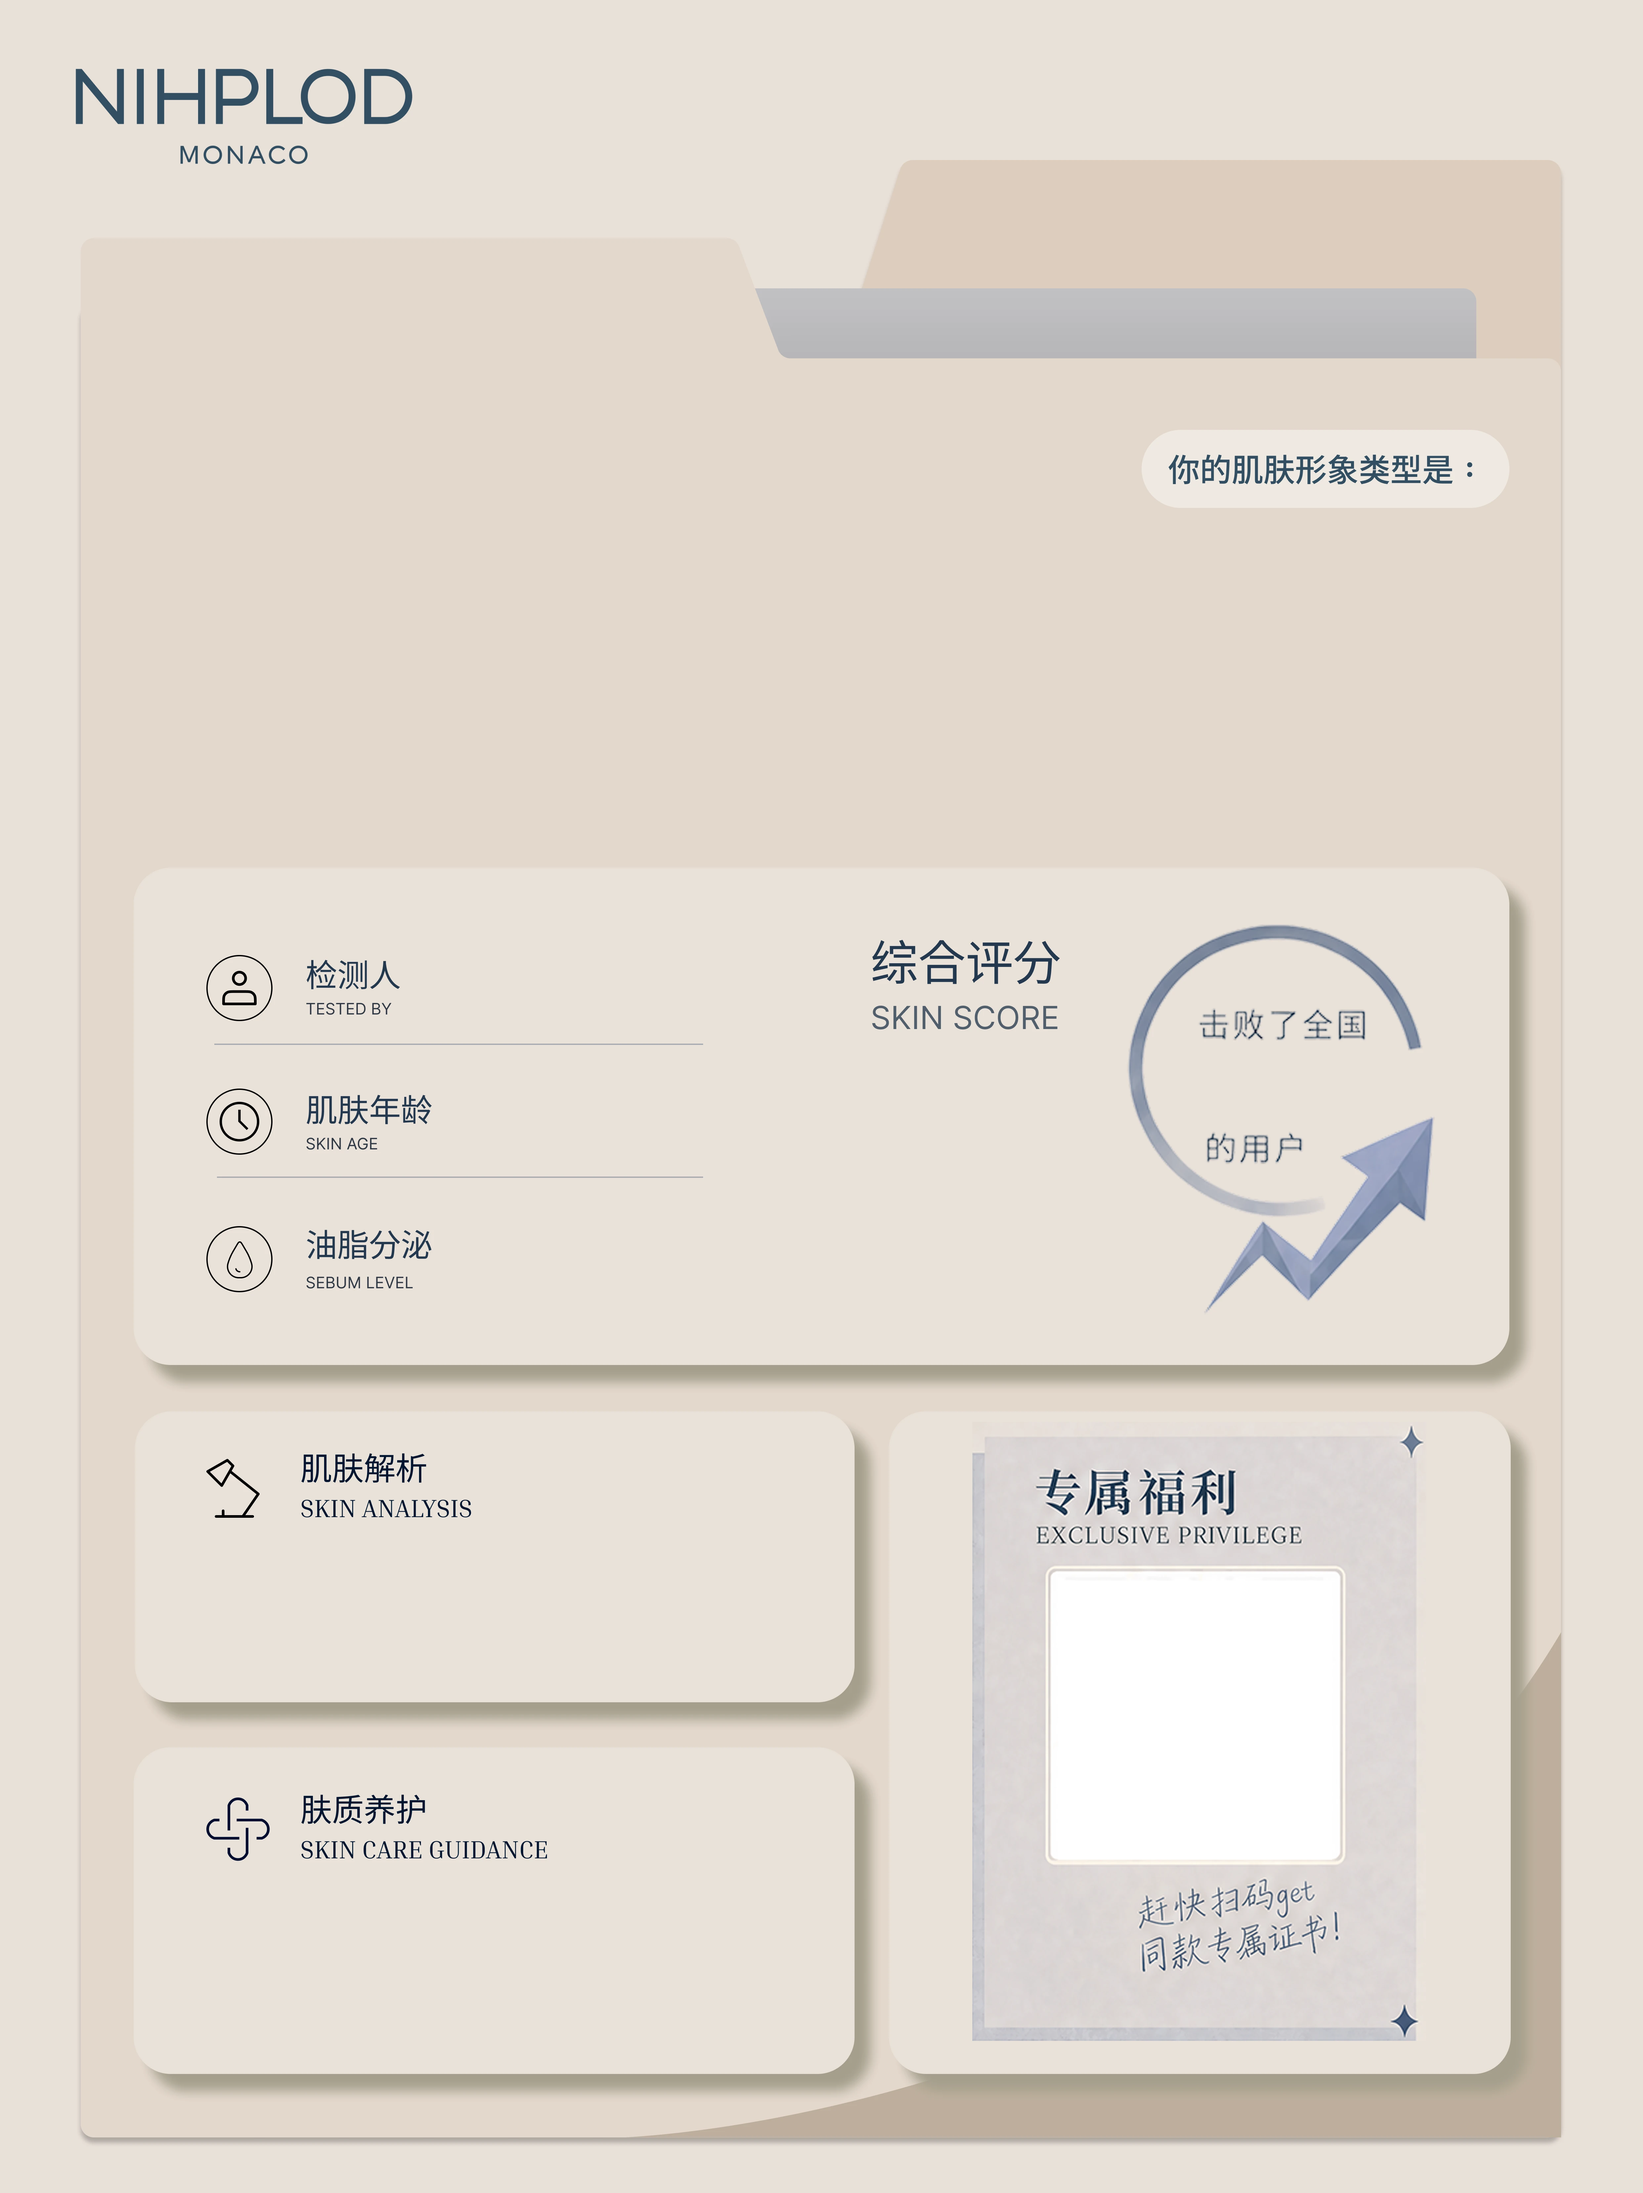
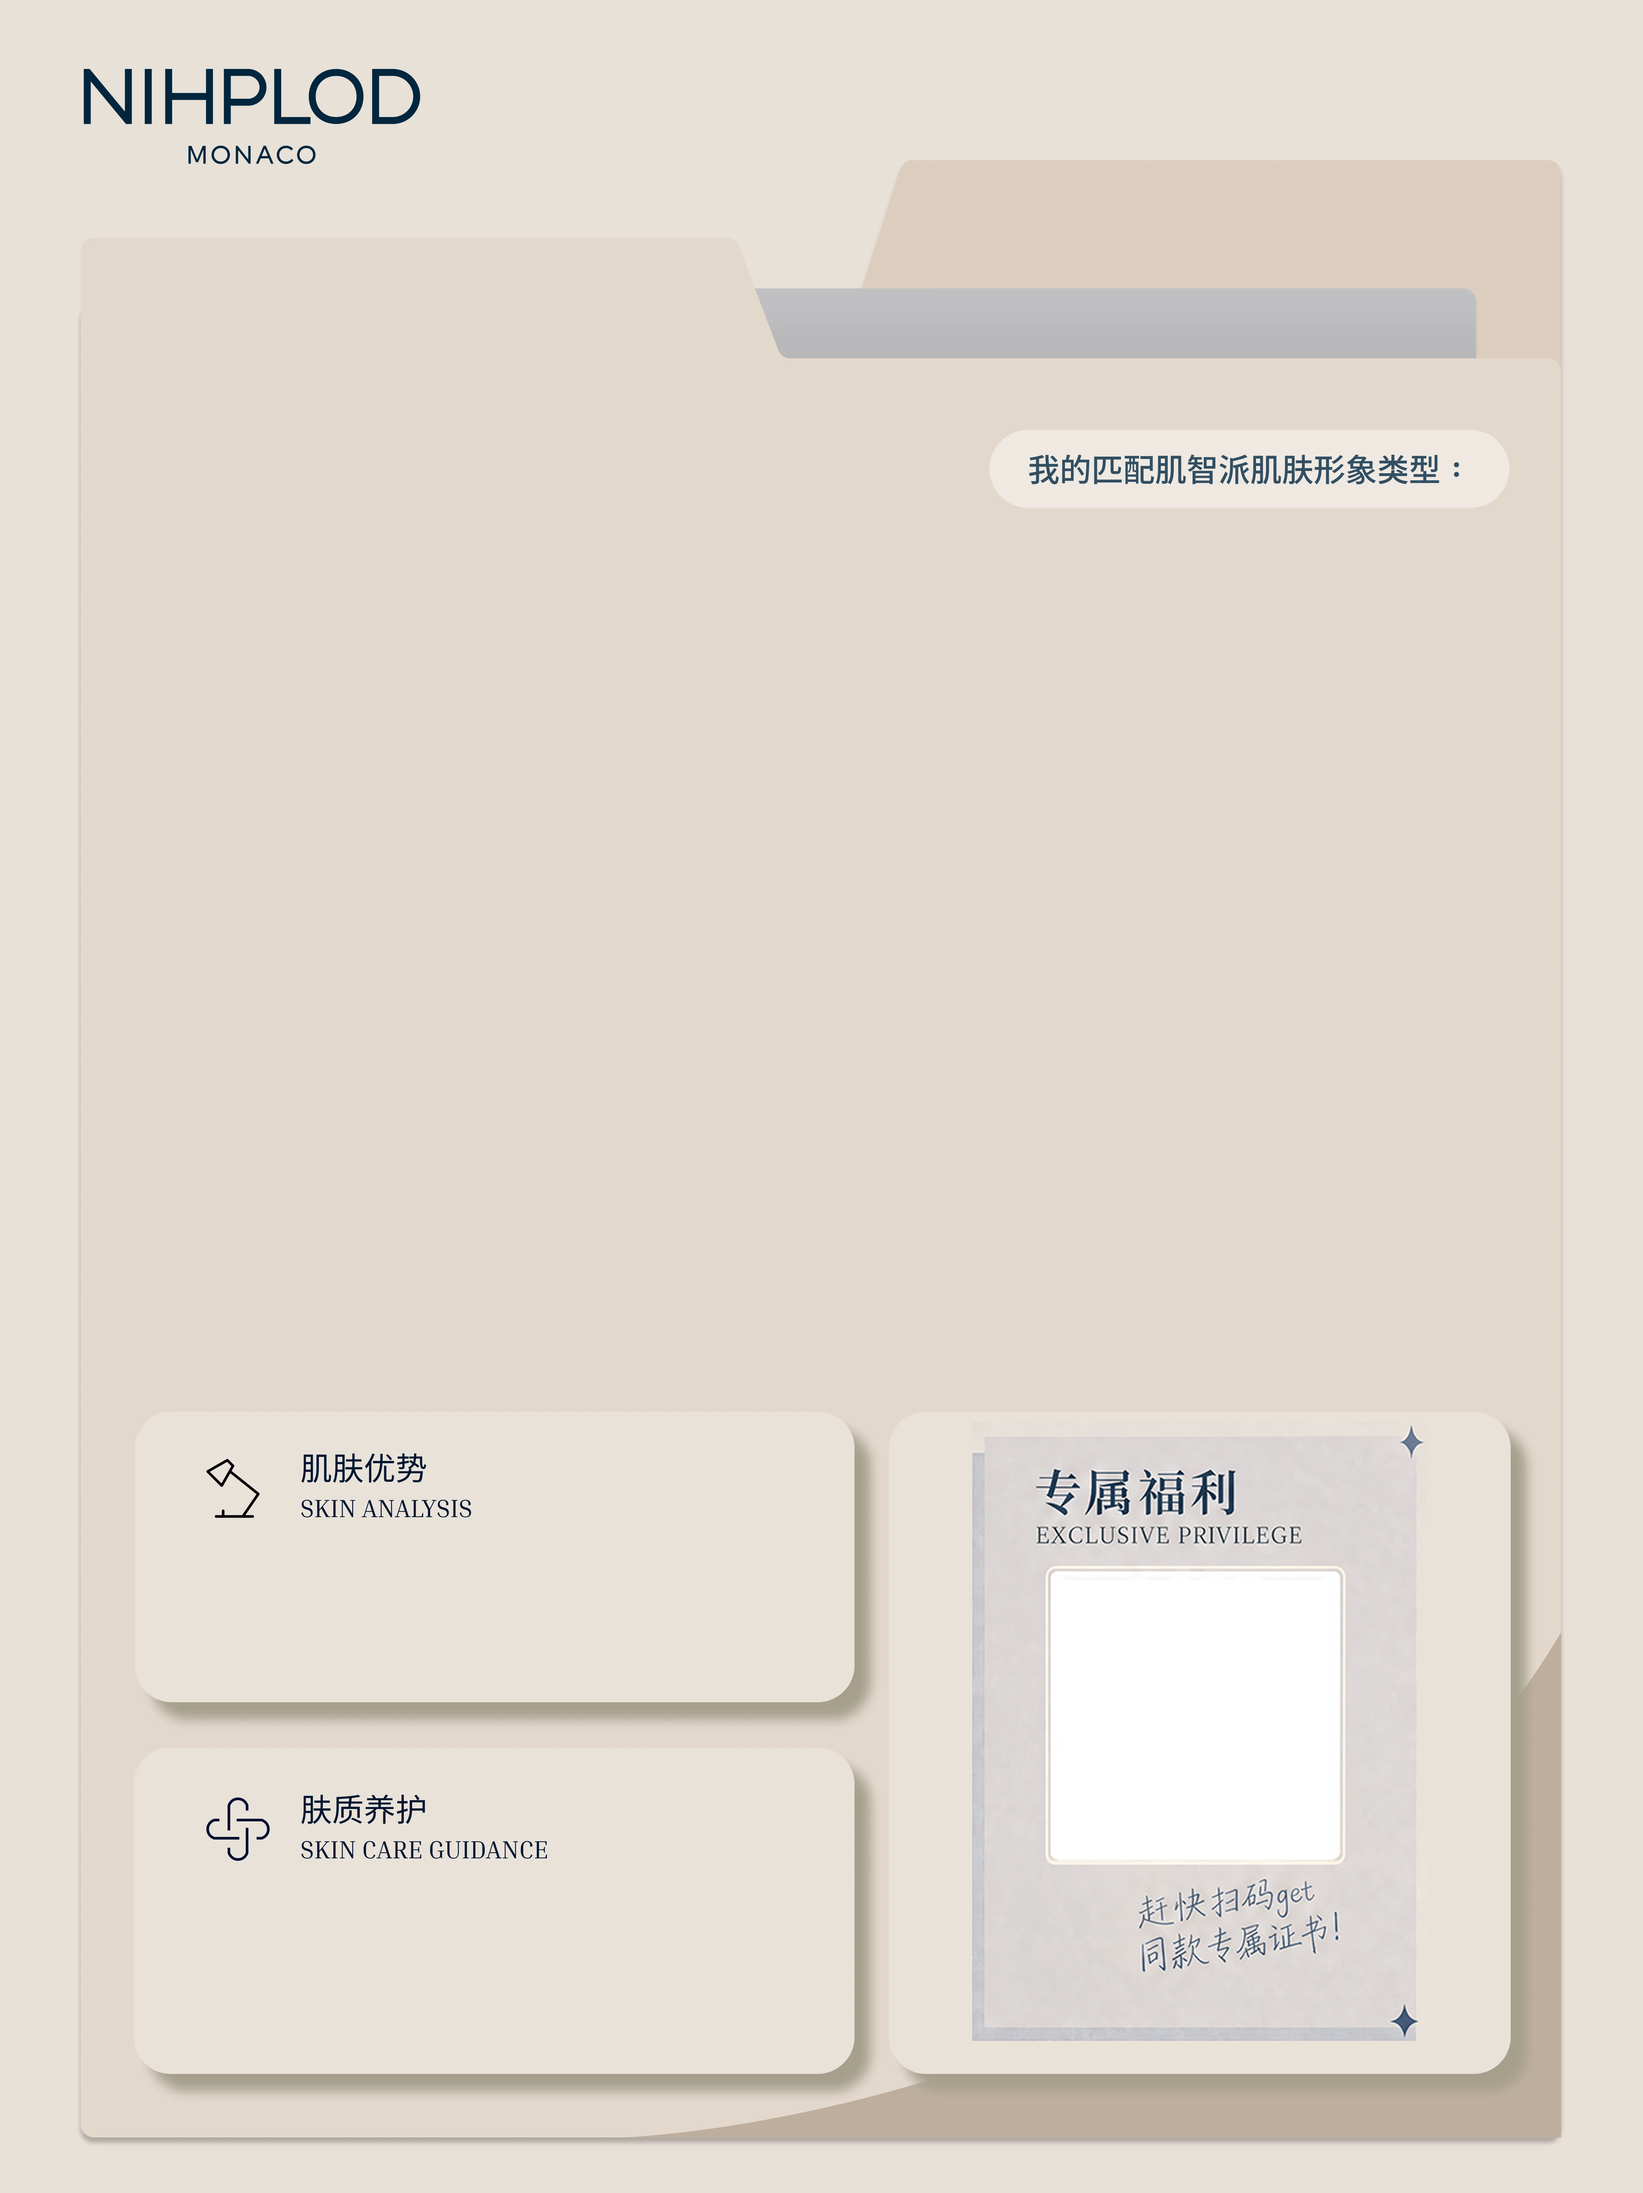
1

diff --git a/src/components/advisor/poster/SharePoster.tsx b/src/components/advisor/poster/SharePoster.tsx
@@ -12,58 +12,50 @@ interface SharePosterProps {
   persona?: string;
   avatar?: string | null;
   posterTemplate?: string;
+  posterOverlay?: string;
   qrDataUrl?: string | null;
 }
 
 export const SharePoster = forwardRef<HTMLDivElement, SharePosterProps>(
   function SharePoster(
-    { nickname, score, percentile, skinTypeName, waterOil, persona, avatar, posterTemplate, qrDataUrl },
+    { nickname, score, percentile, skinTypeName, waterOil, persona, avatar, posterTemplate, posterOverlay, qrDataUrl },
     ref
   ) {
     const [templateFailed, setTemplateFailed] = useState(false);
-
-    const showTemplate = posterTemplate && !templateFailed;
+    const [overlayFailed, setOverlayFailed] = useState(false);
 
     return (
       <div
         ref={ref}
-        className="relative w-[360px] h-[640px] overflow-hidden"
+        className="relative w-[480px] h-[640px] overflow-hidden"
         style={{ fontFamily: "system-ui, -apple-system, sans-serif" }}
       >
-        {/* 背景模板图片 */}
-        {showTemplate ? (
+        {/* 第一层：背景模板图 */}
+        {posterTemplate && !templateFailed ? (
           <img
             src={posterTemplate}
-            alt="海报模板"
-            className="absolute inset-0 w-full h-full object-cover"
+            alt=""
+            className="absolute inset-0 w-full h-full object-contain"
             onError={() => setTemplateFailed(true)}
           />
         ) : (
-          <div className="absolute inset-0 bg-gradient-to-b from-[#FAF8F5] to-[#F0E6D8]">
-            <div
-              className="absolute inset-0 opacity-20"
-              style={{
-                backgroundImage: "radial-gradient(#5c4937 1px, transparent 1px)",
-                backgroundSize: "24px 24px",
-              }}
-            />
-          </div>
+          <div className="absolute inset-0 bg-gradient-to-b from-[#FAF8F5] to-[#F0E6D8]" />
         )}
 
-        {/* 头像 — 绝对定位到模板圆圈位置 */}
+        {/* 第二层：IP 形象头像 */}
         {avatar && (
           <div
-            className="absolute z-20 rounded-full overflow-hidden"
+            className="absolute z-10 rounded-full overflow-hidden"
             style={{
-              top: 258,
-              right: 280,
+              top: "40.3%",
+              left: "66.7%",
               width: 32,
               height: 32,
             }}
           >
             <img
               src={avatar}
-              alt={nickname}
+              alt=""
               className="w-full h-full object-cover object-center"
               onError={(e) => {
                 (e.target as HTMLImageElement).style.display = "none";
@@ -72,61 +64,63 @@ export const SharePoster = forwardRef<HTMLDivElement, SharePosterProps>(
           </div>
         )}
 
-        {/* 内容层 */}
-        <div className="relative z-10 flex flex-col h-full p-6">
+        {/* 第三层：装饰叠加图 */}
+        {posterOverlay && !overlayFailed && (
+          <img
+            src={posterOverlay}
+            alt=""
+            className="absolute inset-0 w-full h-full object-contain z-20 pointer-events-none"
+            onError={() => setOverlayFailed(true)}
+          />
+        )}
+
+        {/* 第四层：所有文字字段 */}
+        <div className="absolute inset-0 z-30 pointer-events-none">
           {/* 昵称 */}
-          <div className="text-center mb-4" style={{ transform: 'translateY(238px) translateX(-70px)' }}>
-            <p className="text-lg font-medium text-[#2d2a26]">
-              {nickname}
-            </p>
+          <div className="absolute top-[37%] left-1/2 -translate-x-1/2">
+            <p className="text-lg font-medium text-[#2d2a26] whitespace-nowrap">{nickname}</p>
           </div>
 
-          {/* 核心数据 */}
-          <div className="flex-1 flex flex-col items-center justify-center gap-6">
-            {skinTypeName && (
-              <div className="text-center px-6">
-                <p className="text-xs tracking-widest text-[#8c7a6b]">
-                  「{skinTypeName}」
-                </p>
-              </div>
-            )}
-
-            <div className="text-center pl-54">
-              {score !== undefined ? (
-                <div className="text-5xl font-bold text-[#E53935]" style={{ transform: 'translateY(-88px) rotate(5deg)' }}>{score}<span className="text-sm font-bold">分</span></div>
-              ) : (
-                <div className="text-2xl font-bold text-[#E53935]" style={{ transform: 'translateY(-88px) rotate(5deg)' }}>问卷评估</div>
-              )}
+          {/* IP 名称 */}
+          {skinTypeName && (
+            <div className="absolute top-[43%] left-1/2 -translate-x-1/2">
+              <p className="text-xs tracking-widest text-[#8c7a6b] whitespace-nowrap">「{skinTypeName}」</p>
             </div>
+          )}
 
-            {persona && (
-              <div className="text-center px-8">
-                <p className="text-sm text-[#5c4937] leading-relaxed" style={{ fontStyle: "italic" }}>
-                  {persona}
-                </p>
-              </div>
-            )}
-
-            {percentile !== undefined && (
-              <div className="text-center px-6">
-                <p className="text-sm text-[#5c4937] leading-relaxed">
-                  <span className="font-bold text-4xl mx-1" style={{ transform: 'translate(-97px, -28px)', display: 'inline-block' }}>{percentile}%</span>
-                </p>
-              </div>
-            )}
-
-            {waterOil !== undefined && (
-              <div className="text-center px-6">
-                <p className="text-sm text-[#5c4937] font-medium">
-                  水油状态：{getTZoneLabel(waterOil)}
-                </p>
-              </div>
+          {/* 综合评分 */}
+          <div className="absolute top-[48%] left-1/2 -translate-x-1/2">
+            {score !== undefined ? (
+              <p className="text-5xl font-bold text-[#E53935] whitespace-nowrap">{score}<span className="text-sm font-bold">分</span></p>
+            ) : (
+              <p className="text-2xl font-bold text-[#E53935] whitespace-nowrap">问卷评估</p>
             )}
           </div>
+
+          {/* IP 专属标语 */}
+          {persona && (
+            <div className="absolute top-[58%] left-1/2 -translate-x-1/2 max-w-[420px]">
+              <p className="text-sm text-[#5c4937] italic leading-relaxed text-center">{persona}</p>
+            </div>
+          )}
+
+          {/* 全国超越百分比 */}
+          {percentile !== undefined && (
+            <div className="absolute top-[68%] left-1/2 -translate-x-1/2">
+              <p className="text-4xl font-bold text-[#5c4937] whitespace-nowrap">{percentile}%</p>
+            </div>
+          )}
+
+          {/* 水油状态 */}
+          {waterOil !== undefined && (
+            <div className="absolute top-[76%] left-1/2 -translate-x-1/2">
+              <p className="text-sm font-medium text-[#5c4937] whitespace-nowrap">水油状态：{getTZoneLabel(waterOil)}</p>
+            </div>
+          )}
 
           {/* 二维码 */}
           {qrDataUrl && (
-            <div className="mt-auto flex justify-center pb-2" style={{ transform: 'translate(100px, -77.5px)' }}>
+            <div className="absolute top-[84%] left-1/2 -translate-x-1/2">
               <img src={qrDataUrl} alt="二维码" className="w-16 h-16 rounded-lg" />
             </div>
           )}

diff --git a/src/app/(advisor)/result/ResultClient.tsx b/src/app/(advisor)/result/ResultClient.tsx
@@ -1212,7 +1212,7 @@ function ResultClientContent({ id, initialData }: ResultClientProps) {
                         </div>
                     )}
                     {/* Hidden SharePoster for toPng capture */}
-                    <div style={{ position: "absolute", top: 0, left: 0, width: 360, height: 640, opacity: 0, pointerEvents: "none", zIndex: -1 }}>
+                    <div style={{ position: "absolute", top: 0, left: 0, width: 480, height: 640, opacity: 0, pointerEvents: "none", zIndex: -1 }}>
                         <SharePoster
                             ref={posterRef}
                             nickname={userNickname || "用户"}
@@ -1228,6 +1228,7 @@ function ResultClientContent({ id, initialData }: ResultClientProps) {
                                 gender: socialGender,
                             })}
                             posterTemplate="/images/poster-template.webp"
+                            posterOverlay="/images/poster-overlay.webp"
                             qrDataUrl={qrDataUrl}
                             persona={result?.persona ? skinTypes.find(t => t.ipKey === result.persona)?.m1?.persona : undefined}
                         />
